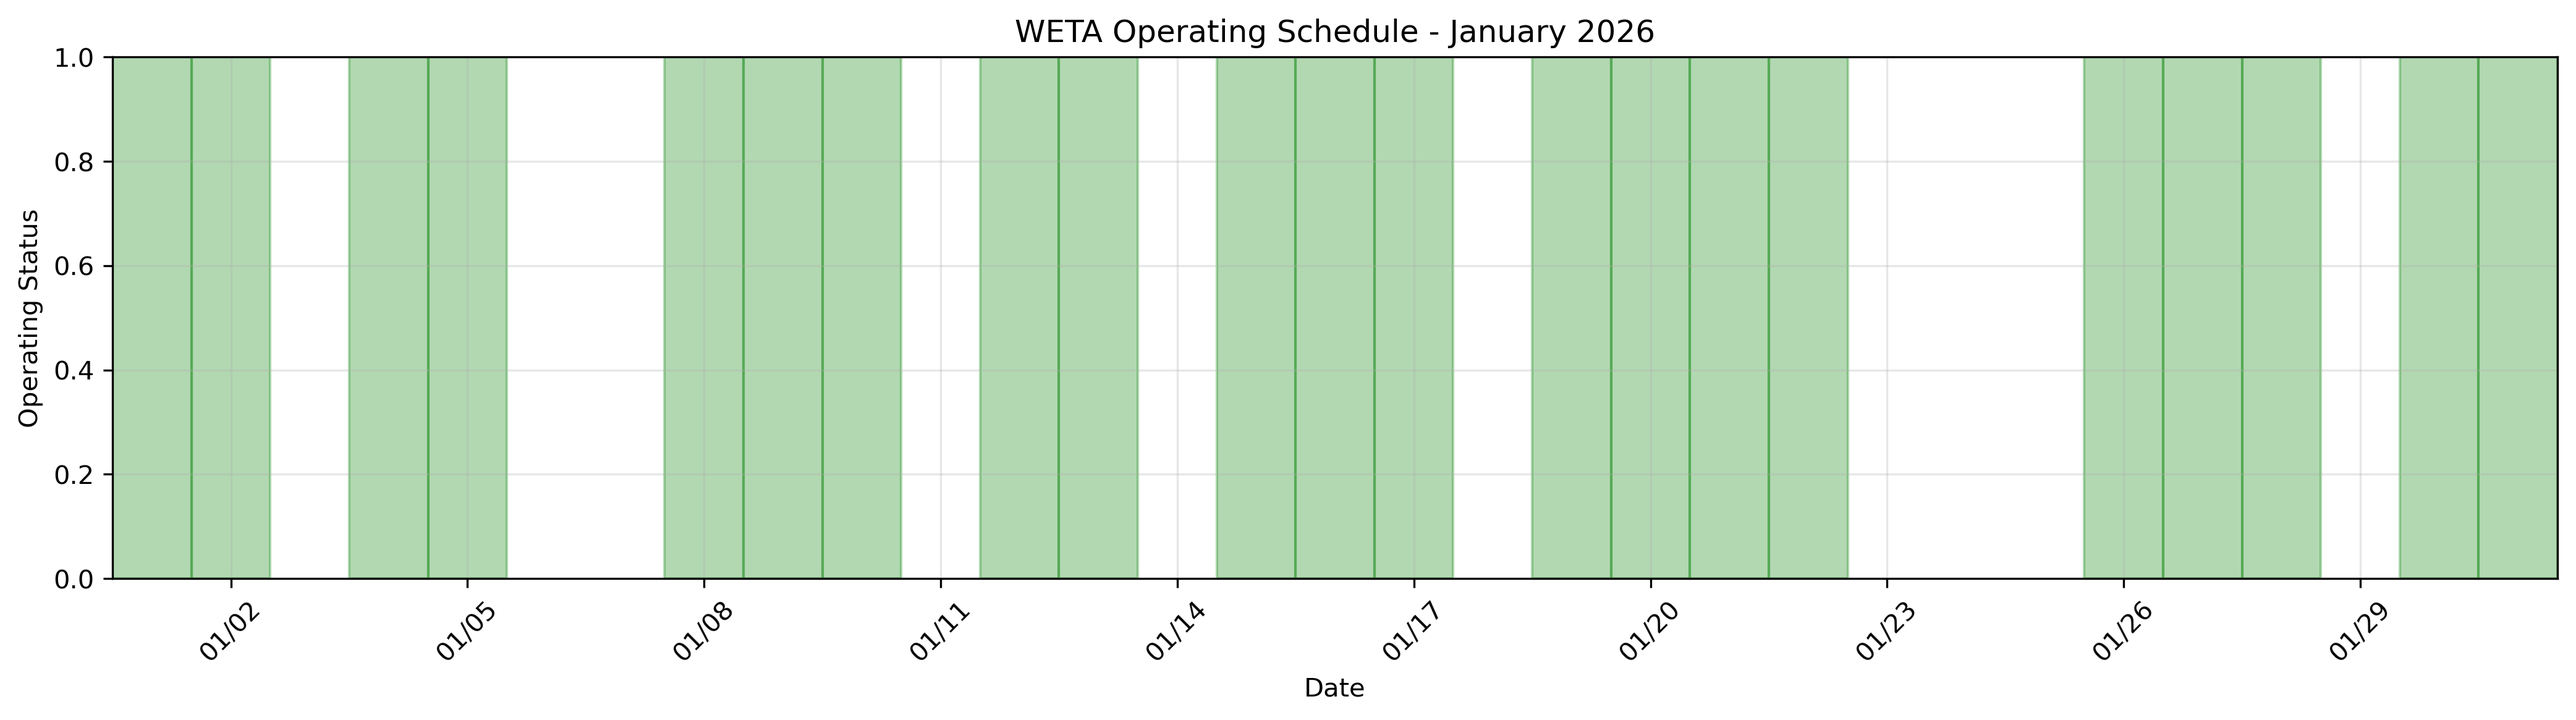
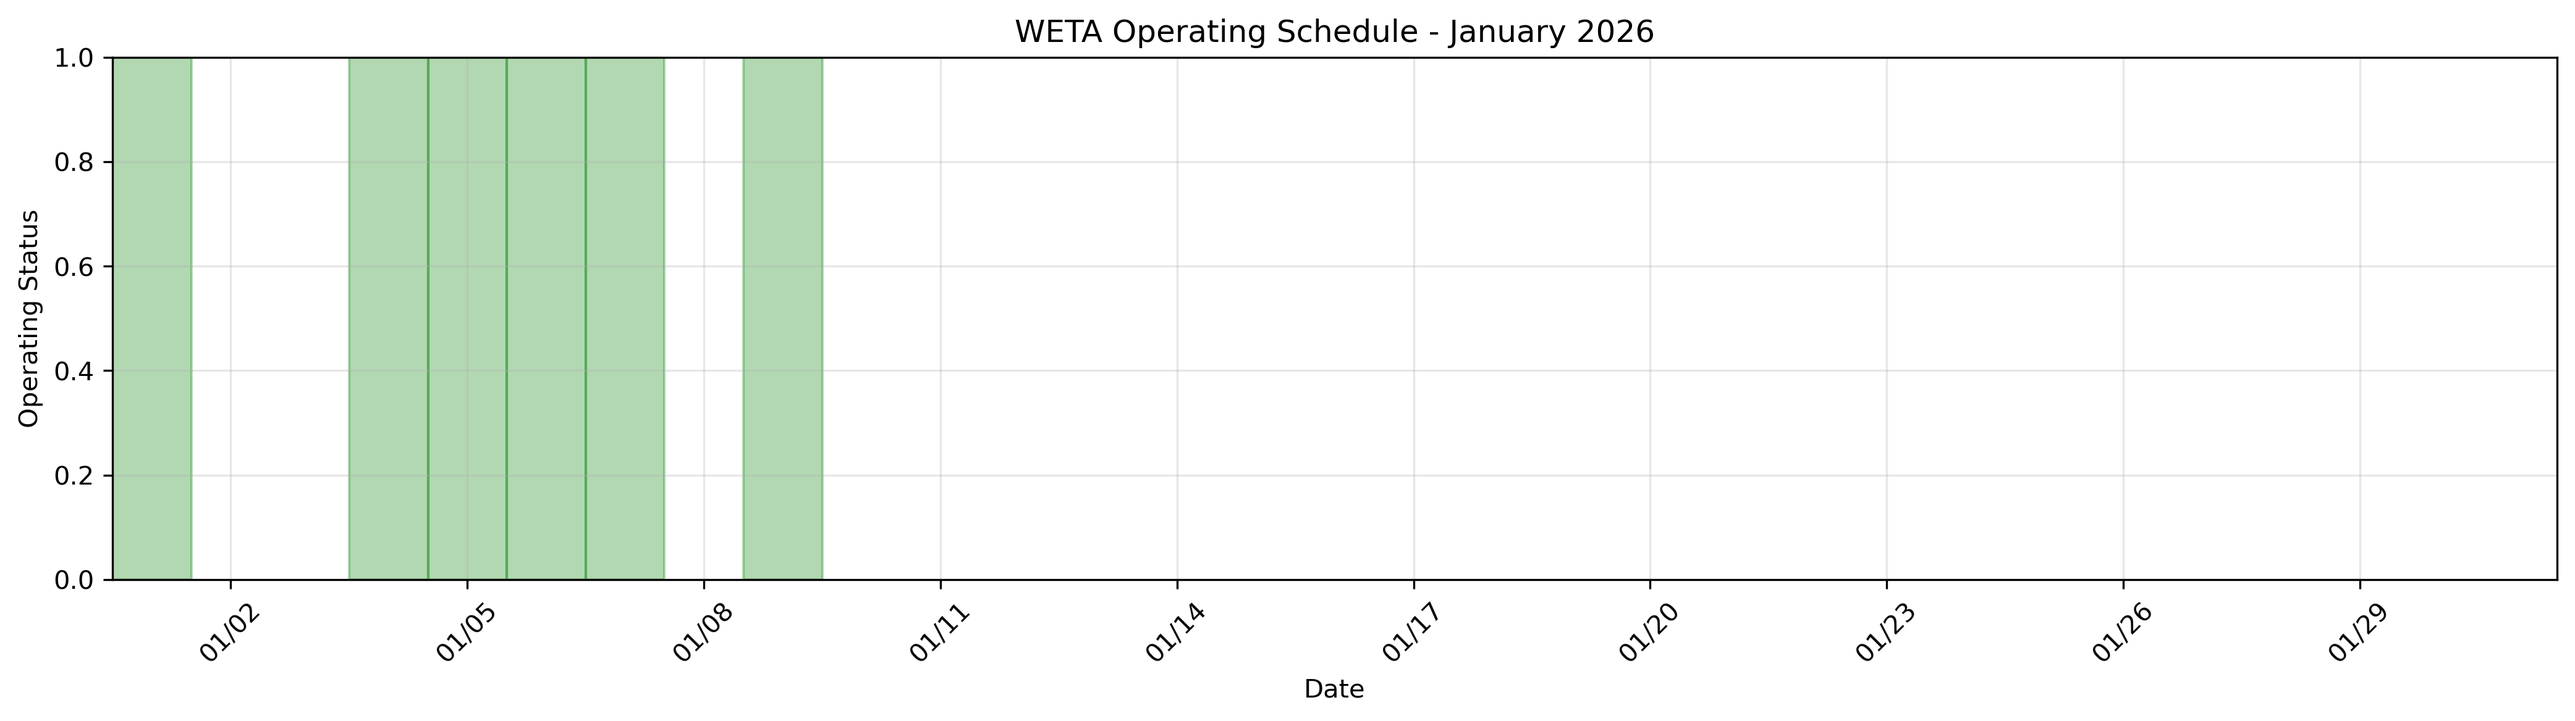
SWE boxplots and Feb report alignment: plot SWE not snow depth, reference SWE figures, add new SWE plot assets
Made-with: Cursor

diff --git a/scripts/plot_generators.py b/scripts/plot_generators.py
@@ -245,11 +245,35 @@ def plot_precipitation_summary(stations_data, operations_df, month, year, output
     return output_file
 
 
+def _find_swe_or_snow_depth_column(df, prefer_swe=True):
+    """Return column name for SWE (snow water equivalent) or snow depth. Prefer SWE when prefer_swe=True."""
+    swe_col = None
+    depth_col = None
+    for col in df.columns:
+        c = str(col).lower()
+        if 'snow water equivalent' in c or ('water equivalent' in c and 'snow' in c) or (c.startswith('swe') or ' swe ' in c):
+            swe_col = col
+            break
+    for col in df.columns:
+        c = str(col).lower()
+        if 'snow' in c and 'depth' in c:
+            depth_col = col
+            break
+    if prefer_swe and swe_col is not None:
+        return swe_col, 'swe'
+    if depth_col is not None:
+        return depth_col, 'depth'
+    if swe_col is not None:
+        return swe_col, 'swe'
+    return None, None
+
+
 def plot_snow_depth_boxplots(treatment_station, control_station, month, year, 
-                             highlight_month=None, highlight_year=None, output_file=None):
+                             highlight_month=None, highlight_year=None, output_file=None, use_swe=True):
     """
-    Generate three-panel boxplot: Treatment, Control, and Difference
-    Shows only the specified month (not all months)
+    Generate three-panel boxplot: Treatment, Control, and Difference.
+    Uses Snow Water Equivalent (SWE) by default to match February report; set use_swe=False for snow depth.
+    Shows only the specified month (not all months).
     
     Args:
         treatment_station: Name of treatment station
@@ -259,16 +283,7 @@ def plot_snow_depth_boxplots(treatment_station, control_station, month, year,
         highlight_month: Month to highlight (defaults to month)
         highlight_year: Year to highlight (defaults to year)
         output_file: Output file path (if None, auto-generates with station names)
-    """
-    """
-    Generate three-panel boxplot: Treatment, Control, and Difference
-    
-    Args:
-        treatment_station: Name of treatment station
-        control_station: Name of control station
-        month: Month number for highlighting (1-12)
-        year: Year for highlighting
-        output_file: Output file path
+        use_swe: If True (default), plot Snow Water Equivalent; else Snow Depth
     """
     # Load data
     treatment_df, date_col_t = load_station_data(treatment_station)
@@ -278,23 +293,16 @@ def plot_snow_depth_boxplots(treatment_station, control_station, month, year,
         print(f"Warning: Could not load data for {treatment_station} or {control_station}")
         return None
     
-    # Find snow depth column (usually contains "snow" or "depth")
-    snow_col_t = None
-    snow_col_c = None
-    
-    for col in treatment_df.columns:
-        if 'snow' in str(col).lower() and 'depth' in str(col).lower():
-            snow_col_t = col
-            break
-    
-    for col in control_df.columns:
-        if 'snow' in str(col).lower() and 'depth' in str(col).lower():
-            snow_col_c = col
-            break
+    # Find SWE or snow depth column (prefer SWE to match February report)
+    snow_col_t, var_t = _find_swe_or_snow_depth_column(treatment_df, prefer_swe=use_swe)
+    snow_col_c, var_c = _find_swe_or_snow_depth_column(control_df, prefer_swe=use_swe)
     
     if snow_col_t is None or snow_col_c is None:
-        print(f"Warning: Could not find snow depth column")
+        print(f"Warning: Could not find SWE/snow depth column")
         return None
+    
+    var_label = "Snow Water Equivalent (in)" if (var_t == 'swe' or var_c == 'swe') else "Snow Depth (in)"
+    var_short = "SWE" if (var_t == 'swe' or var_c == 'swe') else "Snow Depth"
     
     # Prepare data
     treatment_df = treatment_df[[date_col_t, snow_col_t]].copy()
@@ -363,20 +371,20 @@ def plot_snow_depth_boxplots(treatment_station, control_station, month, year,
     ax2 = fig.add_subplot(gs[0, 1])  # Control
     ax3 = fig.add_subplot(gs[1, :])  # Difference (spans both columns)
     
-    # Create boxplots
+    # Create boxplots (labels match February report: SWE / snow water content)
     bp1 = ax1.boxplot(treatment_groups, labels=labels, showfliers=True)
-    ax1.set_title(f"Snow Depth: {treatment_station} (TREATMENT)")
-    ax1.set_ylabel("Snow Depth (in)")
+    ax1.set_title(f"{var_short}: {treatment_station} (TREATMENT)")
+    ax1.set_ylabel(var_label)
     ax1.tick_params(axis="x", rotation=45)
     ax1.grid(axis="y", alpha=0.35)
     
     bp2 = ax2.boxplot(control_groups, labels=labels, showfliers=True)
-    ax2.set_title(f"Snow Depth: {control_station} (CONTROL)")
+    ax2.set_title(f"{var_short}: {control_station} (CONTROL)")
     ax2.tick_params(axis="x", rotation=45)
     ax2.grid(axis="y", alpha=0.35)
     
     bp3 = ax3.boxplot(diff_groups, labels=labels, showfliers=True)
-    ax3.set_title(f"Snow Depth: TREATMENT - CONTROL")
+    ax3.set_title(f"{var_short}: TREATMENT - CONTROL")
     ax3.set_ylabel("Difference (in)")
     ax3.tick_params(axis="x", rotation=45)
     ax3.grid(axis="y", alpha=0.35)
@@ -435,10 +443,11 @@ def plot_snow_depth_boxplots(treatment_station, control_station, month, year,
         plt.subplots_adjust(bottom=0.18, top=0.92, hspace=0.45, wspace=0.25)
     
     if output_file is None:
-        # Include station names in filename for multiple combinations
+        # Include station names; use SWE in filename when plotting SWE to match February report
         treatment_clean = treatment_station.replace(" ", "_").replace("/", "_")
         control_clean = control_station.replace(" ", "_").replace("/", "_")
-        output_file = PLOTS_DIR / f"{year}{month:02d}_SnowDepth_{treatment_clean}_vs_{control_clean}.{PLOT_FORMAT}"
+        var_tag = "SWE" if (var_t == 'swe' or var_c == 'swe') else "SnowDepth"
+        output_file = PLOTS_DIR / f"{year}{month:02d}_{var_tag}_{treatment_clean}_vs_{control_clean}.{PLOT_FORMAT}"
     
     plt.savefig(output_file, dpi=PLOT_DPI, bbox_inches='tight')
     print(f"Saved: {output_file}")

diff --git a/scripts/update_latex.py b/scripts/update_latex.py
@@ -50,13 +50,18 @@ def update_latex_plots(month, year, main_tex_path=None, snowdepth_plot=None):
     else:
         # Prefer new station-specific files over old default name
         # Default to La Sal Mtn vs Camp jackson if available (matches report text)
-        preferred = f"{year}{month:02d}_SnowDepth_La_Sal_Mtn_vs_Camp_jackson.png"
-        if (PLOTS_DIR / preferred).exists():
-            plot_files['snowdepth'] = preferred
+        # Prefer SWE (snow water equivalent) plots to match February report
+        preferred_swe = f"{year}{month:02d}_SWE_La_Sal_Mtn_vs_Camp_jackson.png"
+        preferred_depth = f"{year}{month:02d}_SnowDepth_La_Sal_Mtn_vs_Camp_jackson.png"
+        if (PLOTS_DIR / preferred_swe).exists():
+            plot_files['snowdepth'] = preferred_swe
+            print(f"Using preferred SWE plot: {plot_files['snowdepth']}")
+        elif (PLOTS_DIR / preferred_depth).exists():
+            plot_files['snowdepth'] = preferred_depth
             print(f"Using preferred snow depth plot: {plot_files['snowdepth']}")
         else:
-            # Find first available snow depth plot for this month/year
-            snow_plots = list(PLOTS_DIR.glob(f"{year}{month:02d}_SnowDepth_*.png"))
+            # Find first available SWE or snow depth plot for this month/year
+            snow_plots = list(PLOTS_DIR.glob(f"{year}{month:02d}_SWE_*.png")) or list(PLOTS_DIR.glob(f"{year}{month:02d}_SnowDepth_*.png"))
             if snow_plots:
                 plot_files['snowdepth'] = snow_plots[0].name
                 print(f"Using first available snow depth plot: {plot_files['snowdepth']}")
@@ -105,8 +110,11 @@ def update_latex_plots(month, year, main_tex_path=None, snowdepth_plot=None):
     
     # Replace all boxplot figures with ONLY La Sal Mtn vs Camp jackson
     # Find the specific boxplot file
-    target_boxplot = f"{year}{month:02d}_SnowDepth_La_Sal_Mtn_vs_Camp_jackson.png"
+    target_boxplot = f"{year}{month:02d}_SWE_La_Sal_Mtn_vs_Camp_jackson.png"
     boxplot_path = PLOTS_DIR / target_boxplot
+    if not boxplot_path.exists():
+        target_boxplot = f"{year}{month:02d}_SnowDepth_La_Sal_Mtn_vs_Camp_jackson.png"
+        boxplot_path = PLOTS_DIR / target_boxplot
     
     if boxplot_path.exists():
         # Create LaTeX code for only this boxplot
@@ -116,11 +124,7 @@ def update_latex_plots(month, year, main_tex_path=None, snowdepth_plot=None):
         figure_code = (r'\begin{figure}[h!]' + '\n' +
                      r'  \centering' + '\n' +
                      r'  \includegraphics[width=0.95\textwidth]{plots/' + target_boxplot + '}' + '\n' +
-                     r'  \caption{Box and whisker plots demonstrating SNOTEL-measured climatological ' +
-                     month_name + r' snow depth at (top left) ' + treatment + 
-                     r', and (top right) ' + control + 
-                     r'. The difference in monthly snow depth is shown in the bottom panel. ' +
-                     r'The red circle in each panel indicates values for ' + month_name + ' ' + str(year) + r'.}' + '\n' +
+                     r'  \caption{Box and whisker plots demonstrating SNOTEL-measured climatological December and January snow water content (SWE) at (top left) La Sal Mountain Upper, (top middle) Buckboard Flat, (bottom left) La Sal Mountain Lower, and (bottom middle) Camp Jackson. The differences are shown in the right-most column. The red circles in each panel indicate values for the current year.}' + '\n' +
                      r'\end{figure}' + '\n\n')
         
         # Find the section from first SnowDepth figure to before Radiometer subsection

diff --git a/main.tex b/main.tex
@@ -249,16 +249,16 @@ Snow pack enhancement was evident in the target area. The nearby Abajo mountains
   \centering
   \begin{subfigure}[b]{0.48\textwidth}
     \centering
-    \includegraphics[width=\linewidth]{plots/202601_SnowDepth_La_Sal_Mtn_vs_Buckboard_Flat.png}
+    \includegraphics[width=\linewidth]{plots/202601_SWE_La_Sal_Mtn_vs_Buckboard_Flat.png}
     \caption{La Sal Mountain Upper vs.\ Buckboard Flat}
   \end{subfigure}
   \hfill
   \begin{subfigure}[b]{0.48\textwidth}
     \centering
-    \includegraphics[width=\linewidth]{plots/202601_SnowDepth_Lasal_Mtn_lower_vs_Camp_jackson.png}
+    \includegraphics[width=\linewidth]{plots/202601_SWE_Lasal_Mtn_lower_vs_Camp_jackson.png}
     \caption{La Sal Mountain Lower vs.\ Camp Jackson}
   \end{subfigure}
-  \caption{Box and whisker plots demonstrating SNOTEL-measured climatological December and January snow water content at (top left) La Sal Mountain Upper, (top middle) Buckboard Flat, (bottom left) La Sal Mountain Lower, and (bottom middle) Camp Jackson. The differences are shown in the right-most column. The red circles in each panel indicate values for the current year. Blue circles indicate climatological outliers.}
+  \caption{Box and whisker plots demonstrating SNOTEL-measured climatological December and January snow water content (SWE) at (top left) La Sal Mountain Upper, (top middle) Buckboard Flat, (bottom left) La Sal Mountain Lower, and (bottom middle) Camp Jackson. The differences are shown in the right-most column. The red circles in each panel indicate values for the current year. Blue circles indicate climatological outliers.}
   \label{fig:snow}
 \end{figure}
 
